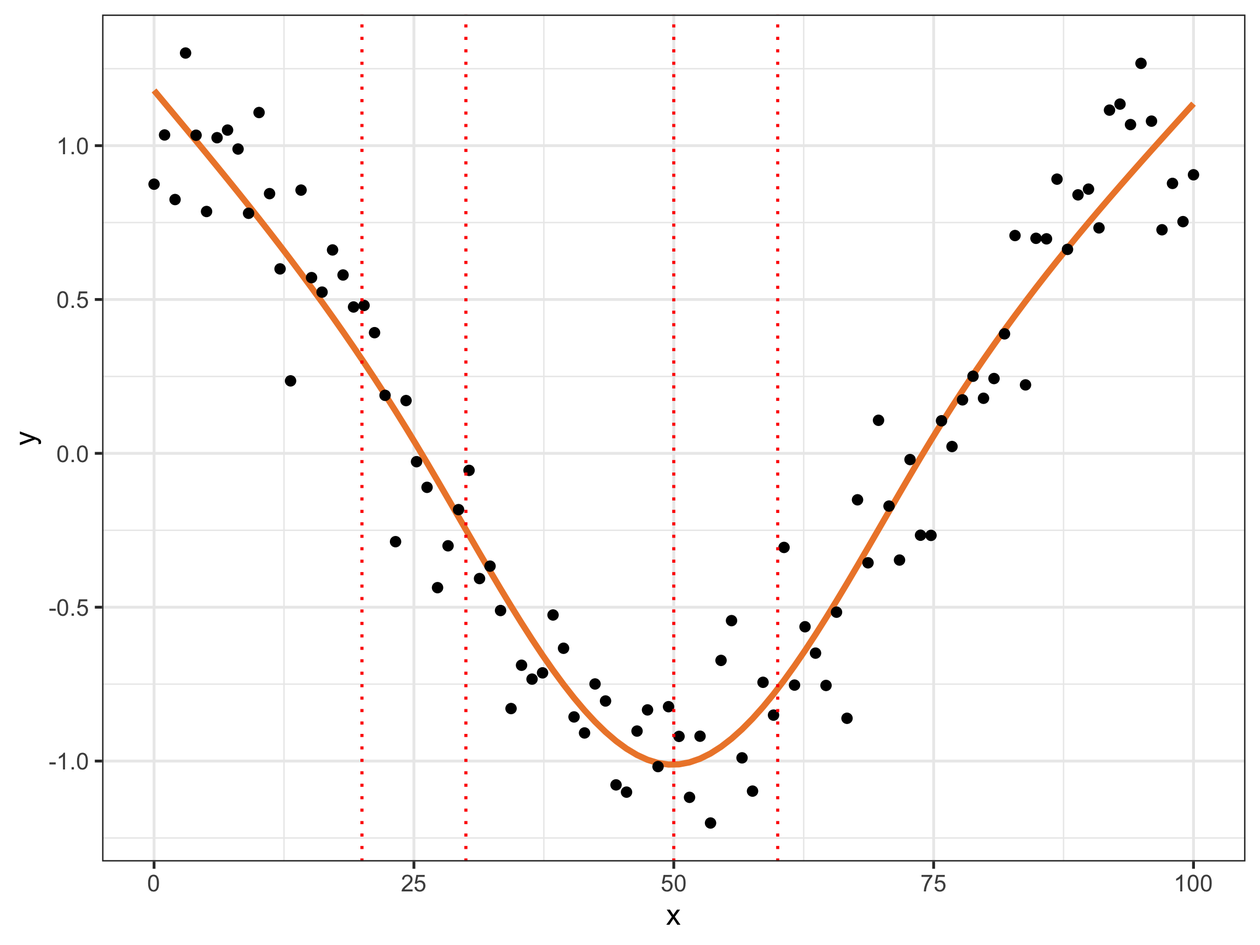
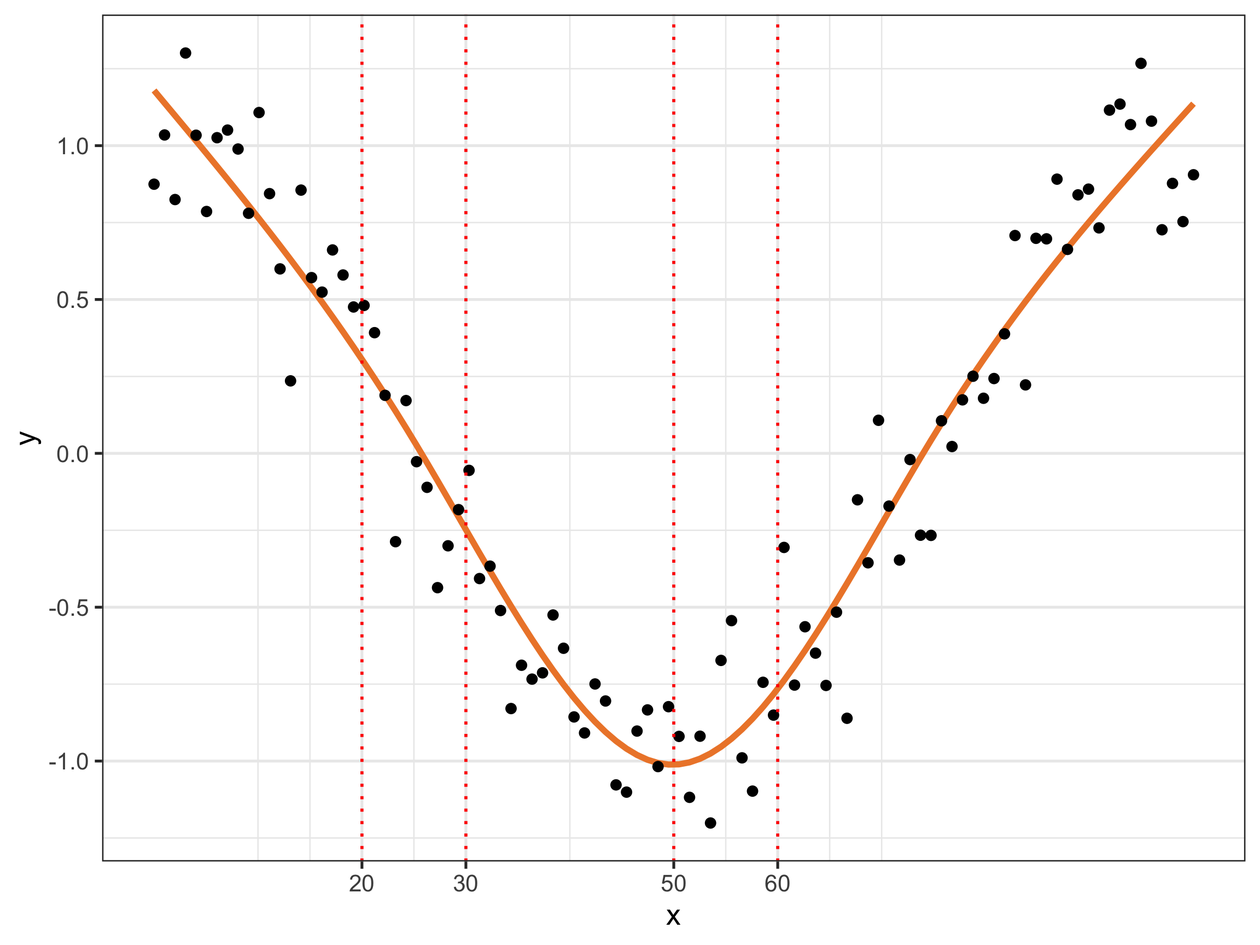
update

diff --git a/_site/posts/009_05Apr_2024/index.html b/_site/posts/009_05Apr_2024/index.html
@@ -1056,8 +1056,9 @@ Note
 <span id="cb9-3"><a href="#cb9-3"></a>  <span class="fu">geom_line</span>(<span class="at">data =</span> dat, <span class="fu">aes</span>(<span class="at">x =</span> x, <span class="at">y =</span> mod4b_pred), <span class="at">color =</span> <span class="st">"#EE8635"</span>, <span class="at">linewidth =</span> <span class="dv">2</span>) <span class="sc">+</span> </span>
 <span id="cb9-4"><a href="#cb9-4"></a>  <span class="fu">geom_point</span>(<span class="at">data =</span> dat, <span class="fu">aes</span>(<span class="at">x =</span> x, <span class="at">y =</span> y), <span class="at">size =</span> <span class="dv">3</span>) <span class="sc">+</span></span>
 <span id="cb9-5"><a href="#cb9-5"></a>  <span class="fu">geom_vline</span>(<span class="at">xintercept =</span> <span class="fu">c</span>(<span class="dv">20</span>,<span class="dv">30</span>,<span class="dv">50</span>,<span class="dv">60</span>), <span class="at">color =</span> <span class="st">"red"</span>, <span class="at">linetype =</span> <span class="st">"dotted"</span>, <span class="at">linewidth =</span> <span class="dv">1</span>) <span class="sc">+</span></span>
-<span id="cb9-6"><a href="#cb9-6"></a>  <span class="fu">xlab</span>(<span class="st">"x"</span>) <span class="sc">+</span> <span class="fu">ylab</span>(<span class="st">"y"</span>) <span class="sc">+</span> </span>
-<span id="cb9-7"><a href="#cb9-7"></a>  <span class="fu">theme_bw</span>(<span class="at">base_size =</span> <span class="dv">20</span>)</span></code><button title="Copy to Clipboard" class="code-copy-button"><i class="bi"></i></button></pre></div>
+<span id="cb9-6"><a href="#cb9-6"></a>  <span class="fu">scale_x_continuous</span>(<span class="at">limits =</span> <span class="fu">c</span>(<span class="dv">0</span>, <span class="dv">100</span>), <span class="at">breaks =</span> <span class="fu">c</span>(<span class="dv">20</span>, <span class="dv">30</span>, <span class="dv">50</span>, <span class="dv">60</span>)) <span class="sc">+</span></span>
+<span id="cb9-7"><a href="#cb9-7"></a>  <span class="fu">xlab</span>(<span class="st">"x"</span>) <span class="sc">+</span> <span class="fu">ylab</span>(<span class="st">"y"</span>) <span class="sc">+</span> </span>
+<span id="cb9-8"><a href="#cb9-8"></a>  <span class="fu">theme_bw</span>(<span class="at">base_size =</span> <span class="dv">20</span>)</span></code><button title="Copy to Clipboard" class="code-copy-button"><i class="bi"></i></button></pre></div>
 </details>
 <div class="cell-output-display">
 <div>
@@ -1087,7 +1088,7 @@ Note
 <span id="cb10-17"><a href="#cb10-17"></a>  <span class="fu">theme_vanilla</span>()</span></code><button title="Copy to Clipboard" class="code-copy-button"><i class="bi"></i></button></pre></div>
 </details>
 <div class="cell-output-display">
-<div class="tabwid"><style>.cl-c0a73044{table-layout:auto;}.cl-c0a43308{font-family:'Consolas';font-size:11pt;font-weight:bold;font-style:normal;text-decoration:none;color:rgba(0, 0, 0, 1.00);background-color:transparent;}.cl-c0a43312{font-family:'Consolas';font-size:11pt;font-weight:normal;font-style:normal;text-decoration:none;color:rgba(0, 0, 0, 1.00);background-color:transparent;}.cl-c0a570f6{margin:0;text-align:right;border-bottom: 0 solid rgba(0, 0, 0, 1.00);border-top: 0 solid rgba(0, 0, 0, 1.00);border-left: 0 solid rgba(0, 0, 0, 1.00);border-right: 0 solid rgba(0, 0, 0, 1.00);padding-bottom:5pt;padding-top:5pt;padding-left:5pt;padding-right:5pt;line-height: 1;background-color:transparent;}.cl-c0a579f2{height:0.25in;background-color:rgba(255, 255, 255, 1.00);vertical-align: middle;border-bottom: 1.5pt solid rgba(102, 102, 102, 1.00);border-top: 1.5pt solid rgba(102, 102, 102, 1.00);border-left: 0 solid rgba(0, 0, 0, 1.00);border-right: 0 solid rgba(0, 0, 0, 1.00);margin-bottom:0;margin-top:0;margin-left:0;margin-right:0;}.cl-c0a579fc{background-color:rgba(255, 255, 255, 1.00);vertical-align: middle;border-bottom: 0.75pt solid rgba(102, 102, 102, 1.00);border-top: 0 solid rgba(0, 0, 0, 1.00);border-left: 0 solid rgba(0, 0, 0, 1.00);border-right: 0 solid rgba(0, 0, 0, 1.00);margin-bottom:0;margin-top:0;margin-left:0;margin-right:0;}.cl-c0a579fd{background-color:rgba(255, 255, 255, 1.00);vertical-align: middle;border-bottom: 0.75pt solid rgba(102, 102, 102, 1.00);border-top: 0.75pt solid rgba(102, 102, 102, 1.00);border-left: 0 solid rgba(0, 0, 0, 1.00);border-right: 0 solid rgba(0, 0, 0, 1.00);margin-bottom:0;margin-top:0;margin-left:0;margin-right:0;}.cl-c0a57a06{background-color:rgba(255, 255, 255, 1.00);vertical-align: middle;border-bottom: 1.5pt solid rgba(102, 102, 102, 1.00);border-top: 0.75pt solid rgba(102, 102, 102, 1.00);border-left: 0 solid rgba(0, 0, 0, 1.00);border-right: 0 solid rgba(0, 0, 0, 1.00);margin-bottom:0;margin-top:0;margin-left:0;margin-right:0;}</style><table data-quarto-disable-processing="true" class="cl-c0a73044"><caption><p>Estimated Marginal Means</p></caption><thead><tr style="overflow-wrap:break-word;"><th class="cl-c0a579f2"><p class="cl-c0a570f6"><span class="cl-c0a43308">X</span></p></th><th class="cl-c0a579f2"><p class="cl-c0a570f6"><span class="cl-c0a43308">Emmean (Y)</span></p></th><th class="cl-c0a579f2"><p class="cl-c0a570f6"><span class="cl-c0a43308">SE</span></p></th><th class="cl-c0a579f2"><p class="cl-c0a570f6"><span class="cl-c0a43308">95% C.I. (lower)</span></p></th><th class="cl-c0a579f2"><p class="cl-c0a570f6"><span class="cl-c0a43308">95% C.I. (upper)</span></p></th></tr></thead><tbody><tr style="overflow-wrap:break-word;"><td class="cl-c0a579fc"><p class="cl-c0a570f6"><span class="cl-c0a43312">20</span></p></td><td class="cl-c0a579fc"><p class="cl-c0a570f6"><span class="cl-c0a43312">0.305</span></p></td><td class="cl-c0a579fc"><p class="cl-c0a570f6"><span class="cl-c0a43312">0.042</span></p></td><td class="cl-c0a579fc"><p class="cl-c0a570f6"><span class="cl-c0a43312">0.222</span></p></td><td class="cl-c0a579fc"><p class="cl-c0a570f6"><span class="cl-c0a43312">0.388</span></p></td></tr><tr style="overflow-wrap:break-word;"><td class="cl-c0a579fd"><p class="cl-c0a570f6"><span class="cl-c0a43312">30</span></p></td><td class="cl-c0a579fd"><p class="cl-c0a570f6"><span class="cl-c0a43312">-0.248</span></p></td><td class="cl-c0a579fd"><p class="cl-c0a570f6"><span class="cl-c0a43312">0.040</span></p></td><td class="cl-c0a579fd"><p class="cl-c0a570f6"><span class="cl-c0a43312">-0.328</span></p></td><td class="cl-c0a579fd"><p class="cl-c0a570f6"><span class="cl-c0a43312">-0.168</span></p></td></tr><tr style="overflow-wrap:break-word;"><td class="cl-c0a579fd"><p class="cl-c0a570f6"><span class="cl-c0a43312">50</span></p></td><td class="cl-c0a579fd"><p class="cl-c0a570f6"><span class="cl-c0a43312">-1.012</span></p></td><td class="cl-c0a579fd"><p class="cl-c0a570f6"><span class="cl-c0a43312">0.043</span></p></td><td class="cl-c0a579fd"><p class="cl-c0a570f6"><span class="cl-c0a43312">-1.098</span></p></td><td class="cl-c0a579fd"><p class="cl-c0a570f6"><span class="cl-c0a43312">-0.925</span></p></td></tr><tr style="overflow-wrap:break-word;"><td class="cl-c0a57a06"><p class="cl-c0a570f6"><span class="cl-c0a43312">60</span></p></td><td class="cl-c0a57a06"><p class="cl-c0a570f6"><span class="cl-c0a43312">-0.765</span></p></td><td class="cl-c0a57a06"><p class="cl-c0a570f6"><span class="cl-c0a43312">0.036</span></p></td><td class="cl-c0a57a06"><p class="cl-c0a570f6"><span class="cl-c0a43312">-0.837</span></p></td><td class="cl-c0a57a06"><p class="cl-c0a570f6"><span class="cl-c0a43312">-0.693</span></p></td></tr></tbody></table></div>
+<div class="tabwid"><style>.cl-bc0d8c7e{table-layout:auto;}.cl-bc0ab170{font-family:'Consolas';font-size:11pt;font-weight:bold;font-style:normal;text-decoration:none;color:rgba(0, 0, 0, 1.00);background-color:transparent;}.cl-bc0ab17a{font-family:'Consolas';font-size:11pt;font-weight:normal;font-style:normal;text-decoration:none;color:rgba(0, 0, 0, 1.00);background-color:transparent;}.cl-bc0bd3a2{margin:0;text-align:right;border-bottom: 0 solid rgba(0, 0, 0, 1.00);border-top: 0 solid rgba(0, 0, 0, 1.00);border-left: 0 solid rgba(0, 0, 0, 1.00);border-right: 0 solid rgba(0, 0, 0, 1.00);padding-bottom:5pt;padding-top:5pt;padding-left:5pt;padding-right:5pt;line-height: 1;background-color:transparent;}.cl-bc0bdc12{height:0.25in;background-color:rgba(255, 255, 255, 1.00);vertical-align: middle;border-bottom: 1.5pt solid rgba(102, 102, 102, 1.00);border-top: 1.5pt solid rgba(102, 102, 102, 1.00);border-left: 0 solid rgba(0, 0, 0, 1.00);border-right: 0 solid rgba(0, 0, 0, 1.00);margin-bottom:0;margin-top:0;margin-left:0;margin-right:0;}.cl-bc0bdc13{background-color:rgba(255, 255, 255, 1.00);vertical-align: middle;border-bottom: 0.75pt solid rgba(102, 102, 102, 1.00);border-top: 0 solid rgba(0, 0, 0, 1.00);border-left: 0 solid rgba(0, 0, 0, 1.00);border-right: 0 solid rgba(0, 0, 0, 1.00);margin-bottom:0;margin-top:0;margin-left:0;margin-right:0;}.cl-bc0bdc1c{background-color:rgba(255, 255, 255, 1.00);vertical-align: middle;border-bottom: 0.75pt solid rgba(102, 102, 102, 1.00);border-top: 0.75pt solid rgba(102, 102, 102, 1.00);border-left: 0 solid rgba(0, 0, 0, 1.00);border-right: 0 solid rgba(0, 0, 0, 1.00);margin-bottom:0;margin-top:0;margin-left:0;margin-right:0;}.cl-bc0bdc1d{background-color:rgba(255, 255, 255, 1.00);vertical-align: middle;border-bottom: 1.5pt solid rgba(102, 102, 102, 1.00);border-top: 0.75pt solid rgba(102, 102, 102, 1.00);border-left: 0 solid rgba(0, 0, 0, 1.00);border-right: 0 solid rgba(0, 0, 0, 1.00);margin-bottom:0;margin-top:0;margin-left:0;margin-right:0;}</style><table data-quarto-disable-processing="true" class="cl-bc0d8c7e"><caption><p>Estimated Marginal Means</p></caption><thead><tr style="overflow-wrap:break-word;"><th class="cl-bc0bdc12"><p class="cl-bc0bd3a2"><span class="cl-bc0ab170">X</span></p></th><th class="cl-bc0bdc12"><p class="cl-bc0bd3a2"><span class="cl-bc0ab170">Emmean (Y)</span></p></th><th class="cl-bc0bdc12"><p class="cl-bc0bd3a2"><span class="cl-bc0ab170">SE</span></p></th><th class="cl-bc0bdc12"><p class="cl-bc0bd3a2"><span class="cl-bc0ab170">95% C.I. (lower)</span></p></th><th class="cl-bc0bdc12"><p class="cl-bc0bd3a2"><span class="cl-bc0ab170">95% C.I. (upper)</span></p></th></tr></thead><tbody><tr style="overflow-wrap:break-word;"><td class="cl-bc0bdc13"><p class="cl-bc0bd3a2"><span class="cl-bc0ab17a">20</span></p></td><td class="cl-bc0bdc13"><p class="cl-bc0bd3a2"><span class="cl-bc0ab17a">0.305</span></p></td><td class="cl-bc0bdc13"><p class="cl-bc0bd3a2"><span class="cl-bc0ab17a">0.042</span></p></td><td class="cl-bc0bdc13"><p class="cl-bc0bd3a2"><span class="cl-bc0ab17a">0.222</span></p></td><td class="cl-bc0bdc13"><p class="cl-bc0bd3a2"><span class="cl-bc0ab17a">0.388</span></p></td></tr><tr style="overflow-wrap:break-word;"><td class="cl-bc0bdc1c"><p class="cl-bc0bd3a2"><span class="cl-bc0ab17a">30</span></p></td><td class="cl-bc0bdc1c"><p class="cl-bc0bd3a2"><span class="cl-bc0ab17a">-0.248</span></p></td><td class="cl-bc0bdc1c"><p class="cl-bc0bd3a2"><span class="cl-bc0ab17a">0.040</span></p></td><td class="cl-bc0bdc1c"><p class="cl-bc0bd3a2"><span class="cl-bc0ab17a">-0.328</span></p></td><td class="cl-bc0bdc1c"><p class="cl-bc0bd3a2"><span class="cl-bc0ab17a">-0.168</span></p></td></tr><tr style="overflow-wrap:break-word;"><td class="cl-bc0bdc1c"><p class="cl-bc0bd3a2"><span class="cl-bc0ab17a">50</span></p></td><td class="cl-bc0bdc1c"><p class="cl-bc0bd3a2"><span class="cl-bc0ab17a">-1.012</span></p></td><td class="cl-bc0bdc1c"><p class="cl-bc0bd3a2"><span class="cl-bc0ab17a">0.043</span></p></td><td class="cl-bc0bdc1c"><p class="cl-bc0bd3a2"><span class="cl-bc0ab17a">-1.098</span></p></td><td class="cl-bc0bdc1c"><p class="cl-bc0bd3a2"><span class="cl-bc0ab17a">-0.925</span></p></td></tr><tr style="overflow-wrap:break-word;"><td class="cl-bc0bdc1d"><p class="cl-bc0bd3a2"><span class="cl-bc0ab17a">60</span></p></td><td class="cl-bc0bdc1d"><p class="cl-bc0bd3a2"><span class="cl-bc0ab17a">-0.765</span></p></td><td class="cl-bc0bdc1d"><p class="cl-bc0bd3a2"><span class="cl-bc0ab17a">0.036</span></p></td><td class="cl-bc0bdc1d"><p class="cl-bc0bd3a2"><span class="cl-bc0ab17a">-0.837</span></p></td><td class="cl-bc0bdc1d"><p class="cl-bc0bd3a2"><span class="cl-bc0ab17a">-0.693</span></p></td></tr></tbody></table></div>
 </div>
 </div>
 <div class="cell">
@@ -1117,7 +1118,7 @@ Note
 <span id="cb11-22"><a href="#cb11-22"></a>  <span class="fu">theme_vanilla</span>()</span></code><button title="Copy to Clipboard" class="code-copy-button"><i class="bi"></i></button></pre></div>
 </details>
 <div class="cell-output-display">
-<div class="tabwid"><style>.cl-c0c10820{table-layout:auto;}.cl-c0bec09c{font-family:'Consolas';font-size:11pt;font-weight:bold;font-style:normal;text-decoration:none;color:rgba(0, 0, 0, 1.00);background-color:transparent;}.cl-c0bec09d{font-family:'Consolas';font-size:11pt;font-weight:normal;font-style:normal;text-decoration:none;color:rgba(0, 0, 0, 1.00);background-color:transparent;}.cl-c0bfae6c{margin:0;text-align:left;border-bottom: 0 solid rgba(0, 0, 0, 1.00);border-top: 0 solid rgba(0, 0, 0, 1.00);border-left: 0 solid rgba(0, 0, 0, 1.00);border-right: 0 solid rgba(0, 0, 0, 1.00);padding-bottom:5pt;padding-top:5pt;padding-left:5pt;padding-right:5pt;line-height: 1;background-color:transparent;}.cl-c0bfae76{margin:0;text-align:right;border-bottom: 0 solid rgba(0, 0, 0, 1.00);border-top: 0 solid rgba(0, 0, 0, 1.00);border-left: 0 solid rgba(0, 0, 0, 1.00);border-right: 0 solid rgba(0, 0, 0, 1.00);padding-bottom:5pt;padding-top:5pt;padding-left:5pt;padding-right:5pt;line-height: 1;background-color:transparent;}.cl-c0bfb56a{height:0.25in;background-color:rgba(255, 255, 255, 1.00);vertical-align: middle;border-bottom: 1.5pt solid rgba(102, 102, 102, 1.00);border-top: 1.5pt solid rgba(102, 102, 102, 1.00);border-left: 0 solid rgba(0, 0, 0, 1.00);border-right: 0 solid rgba(0, 0, 0, 1.00);margin-bottom:0;margin-top:0;margin-left:0;margin-right:0;}.cl-c0bfb574{height:0.25in;background-color:rgba(255, 255, 255, 1.00);vertical-align: middle;border-bottom: 1.5pt solid rgba(102, 102, 102, 1.00);border-top: 1.5pt solid rgba(102, 102, 102, 1.00);border-left: 0 solid rgba(0, 0, 0, 1.00);border-right: 0 solid rgba(0, 0, 0, 1.00);margin-bottom:0;margin-top:0;margin-left:0;margin-right:0;}.cl-c0bfb575{background-color:rgba(255, 255, 255, 1.00);vertical-align: middle;border-bottom: 0.75pt solid rgba(102, 102, 102, 1.00);border-top: 0 solid rgba(0, 0, 0, 1.00);border-left: 0 solid rgba(0, 0, 0, 1.00);border-right: 0 solid rgba(0, 0, 0, 1.00);margin-bottom:0;margin-top:0;margin-left:0;margin-right:0;}.cl-c0bfb57e{background-color:rgba(255, 255, 255, 1.00);vertical-align: middle;border-bottom: 0.75pt solid rgba(102, 102, 102, 1.00);border-top: 0 solid rgba(0, 0, 0, 1.00);border-left: 0 solid rgba(0, 0, 0, 1.00);border-right: 0 solid rgba(0, 0, 0, 1.00);margin-bottom:0;margin-top:0;margin-left:0;margin-right:0;}.cl-c0bfb57f{background-color:rgba(255, 255, 255, 1.00);vertical-align: middle;border-bottom: 1.5pt solid rgba(102, 102, 102, 1.00);border-top: 0.75pt solid rgba(102, 102, 102, 1.00);border-left: 0 solid rgba(0, 0, 0, 1.00);border-right: 0 solid rgba(0, 0, 0, 1.00);margin-bottom:0;margin-top:0;margin-left:0;margin-right:0;}.cl-c0bfb580{background-color:rgba(255, 255, 255, 1.00);vertical-align: middle;border-bottom: 1.5pt solid rgba(102, 102, 102, 1.00);border-top: 0.75pt solid rgba(102, 102, 102, 1.00);border-left: 0 solid rgba(0, 0, 0, 1.00);border-right: 0 solid rgba(0, 0, 0, 1.00);margin-bottom:0;margin-top:0;margin-left:0;margin-right:0;}</style><table data-quarto-disable-processing="true" class="cl-c0c10820"><caption><p>Contrasts of Estimated Marginal Means</p></caption><thead><tr style="overflow-wrap:break-word;"><th class="cl-c0bfb56a"><p class="cl-c0bfae6c"><span class="cl-c0bec09c">Contrast</span></p></th><th class="cl-c0bfb574"><p class="cl-c0bfae76"><span class="cl-c0bec09c">Estimate</span></p></th><th class="cl-c0bfb574"><p class="cl-c0bfae76"><span class="cl-c0bec09c">SE</span></p></th><th class="cl-c0bfb574"><p class="cl-c0bfae76"><span class="cl-c0bec09c">95% C.I. (lower)</span></p></th><th class="cl-c0bfb574"><p class="cl-c0bfae76"><span class="cl-c0bec09c">95% C.I. (upper)</span></p></th><th class="cl-c0bfb574"><p class="cl-c0bfae76"><span class="cl-c0bec09c">p</span></p></th></tr></thead><tbody><tr style="overflow-wrap:break-word;"><td class="cl-c0bfb575"><p class="cl-c0bfae6c"><span class="cl-c0bec09d">Change in Y corresponding to change in X from 20 to 30</span></p></td><td class="cl-c0bfb57e"><p class="cl-c0bfae76"><span class="cl-c0bec09d">-0.553</span></p></td><td class="cl-c0bfb57e"><p class="cl-c0bfae76"><span class="cl-c0bec09d">0.019</span></p></td><td class="cl-c0bfb57e"><p class="cl-c0bfae76"><span class="cl-c0bec09d">-0.592</span></p></td><td class="cl-c0bfb57e"><p class="cl-c0bfae76"><span class="cl-c0bec09d">-0.515</span></p></td><td class="cl-c0bfb57e"><p class="cl-c0bfae76"><span class="cl-c0bec09d">0.000</span></p></td></tr><tr style="overflow-wrap:break-word;"><td class="cl-c0bfb57f"><p class="cl-c0bfae6c"><span class="cl-c0bec09d">Change in Y corresponding to change in X from 50 to 60</span></p></td><td class="cl-c0bfb580"><p class="cl-c0bfae76"><span class="cl-c0bec09d">0.247</span></p></td><td class="cl-c0bfb580"><p class="cl-c0bfae76"><span class="cl-c0bec09d">0.026</span></p></td><td class="cl-c0bfb580"><p class="cl-c0bfae76"><span class="cl-c0bec09d">0.196</span></p></td><td class="cl-c0bfb580"><p class="cl-c0bfae76"><span class="cl-c0bec09d">0.297</span></p></td><td class="cl-c0bfb580"><p class="cl-c0bfae76"><span class="cl-c0bec09d">0.000</span></p></td></tr></tbody></table></div>
+<div class="tabwid"><style>.cl-bc254fd0{table-layout:auto;}.cl-bc2315f8{font-family:'Consolas';font-size:11pt;font-weight:bold;font-style:normal;text-decoration:none;color:rgba(0, 0, 0, 1.00);background-color:transparent;}.cl-bc231602{font-family:'Consolas';font-size:11pt;font-weight:normal;font-style:normal;text-decoration:none;color:rgba(0, 0, 0, 1.00);background-color:transparent;}.cl-bc23fedc{margin:0;text-align:left;border-bottom: 0 solid rgba(0, 0, 0, 1.00);border-top: 0 solid rgba(0, 0, 0, 1.00);border-left: 0 solid rgba(0, 0, 0, 1.00);border-right: 0 solid rgba(0, 0, 0, 1.00);padding-bottom:5pt;padding-top:5pt;padding-left:5pt;padding-right:5pt;line-height: 1;background-color:transparent;}.cl-bc23fee6{margin:0;text-align:right;border-bottom: 0 solid rgba(0, 0, 0, 1.00);border-top: 0 solid rgba(0, 0, 0, 1.00);border-left: 0 solid rgba(0, 0, 0, 1.00);border-right: 0 solid rgba(0, 0, 0, 1.00);padding-bottom:5pt;padding-top:5pt;padding-left:5pt;padding-right:5pt;line-height: 1;background-color:transparent;}.cl-bc2405c6{height:0.25in;background-color:rgba(255, 255, 255, 1.00);vertical-align: middle;border-bottom: 1.5pt solid rgba(102, 102, 102, 1.00);border-top: 1.5pt solid rgba(102, 102, 102, 1.00);border-left: 0 solid rgba(0, 0, 0, 1.00);border-right: 0 solid rgba(0, 0, 0, 1.00);margin-bottom:0;margin-top:0;margin-left:0;margin-right:0;}.cl-bc2405d0{height:0.25in;background-color:rgba(255, 255, 255, 1.00);vertical-align: middle;border-bottom: 1.5pt solid rgba(102, 102, 102, 1.00);border-top: 1.5pt solid rgba(102, 102, 102, 1.00);border-left: 0 solid rgba(0, 0, 0, 1.00);border-right: 0 solid rgba(0, 0, 0, 1.00);margin-bottom:0;margin-top:0;margin-left:0;margin-right:0;}.cl-bc2405d1{background-color:rgba(255, 255, 255, 1.00);vertical-align: middle;border-bottom: 0.75pt solid rgba(102, 102, 102, 1.00);border-top: 0 solid rgba(0, 0, 0, 1.00);border-left: 0 solid rgba(0, 0, 0, 1.00);border-right: 0 solid rgba(0, 0, 0, 1.00);margin-bottom:0;margin-top:0;margin-left:0;margin-right:0;}.cl-bc2405d2{background-color:rgba(255, 255, 255, 1.00);vertical-align: middle;border-bottom: 0.75pt solid rgba(102, 102, 102, 1.00);border-top: 0 solid rgba(0, 0, 0, 1.00);border-left: 0 solid rgba(0, 0, 0, 1.00);border-right: 0 solid rgba(0, 0, 0, 1.00);margin-bottom:0;margin-top:0;margin-left:0;margin-right:0;}.cl-bc2405d3{background-color:rgba(255, 255, 255, 1.00);vertical-align: middle;border-bottom: 1.5pt solid rgba(102, 102, 102, 1.00);border-top: 0.75pt solid rgba(102, 102, 102, 1.00);border-left: 0 solid rgba(0, 0, 0, 1.00);border-right: 0 solid rgba(0, 0, 0, 1.00);margin-bottom:0;margin-top:0;margin-left:0;margin-right:0;}.cl-bc2405da{background-color:rgba(255, 255, 255, 1.00);vertical-align: middle;border-bottom: 1.5pt solid rgba(102, 102, 102, 1.00);border-top: 0.75pt solid rgba(102, 102, 102, 1.00);border-left: 0 solid rgba(0, 0, 0, 1.00);border-right: 0 solid rgba(0, 0, 0, 1.00);margin-bottom:0;margin-top:0;margin-left:0;margin-right:0;}</style><table data-quarto-disable-processing="true" class="cl-bc254fd0"><caption><p>Contrasts of Estimated Marginal Means</p></caption><thead><tr style="overflow-wrap:break-word;"><th class="cl-bc2405c6"><p class="cl-bc23fedc"><span class="cl-bc2315f8">Contrast</span></p></th><th class="cl-bc2405d0"><p class="cl-bc23fee6"><span class="cl-bc2315f8">Estimate</span></p></th><th class="cl-bc2405d0"><p class="cl-bc23fee6"><span class="cl-bc2315f8">SE</span></p></th><th class="cl-bc2405d0"><p class="cl-bc23fee6"><span class="cl-bc2315f8">95% C.I. (lower)</span></p></th><th class="cl-bc2405d0"><p class="cl-bc23fee6"><span class="cl-bc2315f8">95% C.I. (upper)</span></p></th><th class="cl-bc2405d0"><p class="cl-bc23fee6"><span class="cl-bc2315f8">p</span></p></th></tr></thead><tbody><tr style="overflow-wrap:break-word;"><td class="cl-bc2405d1"><p class="cl-bc23fedc"><span class="cl-bc231602">Change in Y corresponding to change in X from 20 to 30</span></p></td><td class="cl-bc2405d2"><p class="cl-bc23fee6"><span class="cl-bc231602">-0.553</span></p></td><td class="cl-bc2405d2"><p class="cl-bc23fee6"><span class="cl-bc231602">0.019</span></p></td><td class="cl-bc2405d2"><p class="cl-bc23fee6"><span class="cl-bc231602">-0.592</span></p></td><td class="cl-bc2405d2"><p class="cl-bc23fee6"><span class="cl-bc231602">-0.515</span></p></td><td class="cl-bc2405d2"><p class="cl-bc23fee6"><span class="cl-bc231602">0.000</span></p></td></tr><tr style="overflow-wrap:break-word;"><td class="cl-bc2405d3"><p class="cl-bc23fedc"><span class="cl-bc231602">Change in Y corresponding to change in X from 50 to 60</span></p></td><td class="cl-bc2405da"><p class="cl-bc23fee6"><span class="cl-bc231602">0.247</span></p></td><td class="cl-bc2405da"><p class="cl-bc23fee6"><span class="cl-bc231602">0.026</span></p></td><td class="cl-bc2405da"><p class="cl-bc23fee6"><span class="cl-bc231602">0.196</span></p></td><td class="cl-bc2405da"><p class="cl-bc23fee6"><span class="cl-bc231602">0.297</span></p></td><td class="cl-bc2405da"><p class="cl-bc23fee6"><span class="cl-bc231602">0.000</span></p></td></tr></tbody></table></div>
 </div>
 </div>
 <p>That’s probably enough on RCS’s for now - this post has turned out longer than I initially anticipated. I hope you have found it helpful and above all, found some motivation to using RCS’s in your modelling endeavours if you are not already.</p>
@@ -1996,65 +1997,66 @@ window.document.addEventListener("DOMContentLoaded", function (event) {
 <span id="cb12-289"><a href="#cb12-289"></a>  <span class="fu">geom_line</span>(<span class="at">data =</span> dat, <span class="fu">aes</span>(<span class="at">x =</span> x, <span class="at">y =</span> mod4b_pred), <span class="at">color =</span> <span class="st">"#EE8635"</span>, <span class="at">linewidth =</span> <span class="dv">2</span>) <span class="sc">+</span> </span>
 <span id="cb12-290"><a href="#cb12-290"></a>  <span class="fu">geom_point</span>(<span class="at">data =</span> dat, <span class="fu">aes</span>(<span class="at">x =</span> x, <span class="at">y =</span> y), <span class="at">size =</span> <span class="dv">3</span>) <span class="sc">+</span></span>
 <span id="cb12-291"><a href="#cb12-291"></a>  <span class="fu">geom_vline</span>(<span class="at">xintercept =</span> <span class="fu">c</span>(<span class="dv">20</span>,<span class="dv">30</span>,<span class="dv">50</span>,<span class="dv">60</span>), <span class="at">color =</span> <span class="st">"red"</span>, <span class="at">linetype =</span> <span class="st">"dotted"</span>, <span class="at">linewidth =</span> <span class="dv">1</span>) <span class="sc">+</span></span>
-<span id="cb12-292"><a href="#cb12-292"></a>  <span class="fu">xlab</span>(<span class="st">"x"</span>) <span class="sc">+</span> <span class="fu">ylab</span>(<span class="st">"y"</span>) <span class="sc">+</span> </span>
-<span id="cb12-293"><a href="#cb12-293"></a>  <span class="fu">theme_bw</span>(<span class="at">base_size =</span> <span class="dv">20</span>)</span>
-<span id="cb12-294"><a href="#cb12-294"></a><span class="co"># emmeans</span></span>
-<span id="cb12-295"><a href="#cb12-295"></a><span class="fu">emmeans</span>(mod4b, <span class="sc">~</span> x, <span class="at">at =</span> <span class="fu">list</span>(<span class="at">x =</span> <span class="fu">c</span>(<span class="dv">20</span>,<span class="dv">30</span>,<span class="dv">50</span>,<span class="dv">60</span>))) <span class="sc">|&gt;</span> </span>
-<span id="cb12-296"><a href="#cb12-296"></a>  <span class="fu">data.frame</span>() <span class="sc">|&gt;</span> </span>
-<span id="cb12-297"><a href="#cb12-297"></a>  <span class="fu">select</span>(<span class="sc">-</span>df) <span class="sc">|&gt;</span> </span>
-<span id="cb12-298"><a href="#cb12-298"></a>  <span class="fu">rename</span>(<span class="st">"X"</span> <span class="ot">=</span> <span class="st">"x"</span>,</span>
-<span id="cb12-299"><a href="#cb12-299"></a>         <span class="st">"Emmean (Y)"</span> <span class="ot">=</span> <span class="st">"emmean"</span>,</span>
-<span id="cb12-300"><a href="#cb12-300"></a>         <span class="st">"95% C.I. (lower)"</span> <span class="ot">=</span> <span class="st">"lower.CL"</span>,</span>
-<span id="cb12-301"><a href="#cb12-301"></a>         <span class="st">"95% C.I. (upper)"</span> <span class="ot">=</span> <span class="st">"upper.CL"</span>) <span class="sc">|&gt;</span> </span>
-<span id="cb12-302"><a href="#cb12-302"></a>  <span class="fu">flextable</span>() <span class="sc">|&gt;</span> </span>
-<span id="cb12-303"><a href="#cb12-303"></a>  <span class="fu">colformat_double</span>(<span class="at">j =</span> <span class="fu">c</span>(<span class="dv">2</span><span class="sc">:</span><span class="dv">5</span>), <span class="at">digits =</span> <span class="dv">3</span>, <span class="at">na_str =</span> <span class="st">"N/A"</span>) <span class="sc">|&gt;</span></span>
-<span id="cb12-304"><a href="#cb12-304"></a>  <span class="fu">set_table_properties</span>(<span class="at">layout =</span> <span class="st">"autofit"</span>) <span class="sc">|&gt;</span> </span>
-<span id="cb12-305"><a href="#cb12-305"></a>  <span class="fu">height</span>(<span class="at">height =</span> <span class="dv">1</span>, <span class="at">unit =</span> <span class="st">"cm"</span>) <span class="sc">|&gt;</span> </span>
-<span id="cb12-306"><a href="#cb12-306"></a>  <span class="fu">hrule</span>(<span class="at">rule =</span> <span class="st">"atleast"</span>, <span class="at">part =</span> <span class="st">"header"</span>) <span class="sc">|&gt;</span> </span>
-<span id="cb12-307"><a href="#cb12-307"></a>  <span class="fu">align</span>(<span class="at">align =</span> <span class="st">"center"</span>, <span class="at">part =</span> <span class="st">"body"</span>) <span class="sc">|&gt;</span></span>
-<span id="cb12-308"><a href="#cb12-308"></a>  <span class="fu">bg</span>(<span class="at">bg =</span> <span class="st">"white"</span>, <span class="at">part =</span> <span class="st">"all"</span>) <span class="sc">|&gt;</span> </span>
-<span id="cb12-309"><a href="#cb12-309"></a>  flextable<span class="sc">::</span><span class="fu">font</span>(<span class="at">fontname =</span> <span class="st">"Consolas"</span>, <span class="at">part =</span> <span class="st">"all"</span>) <span class="sc">|&gt;</span></span>
-<span id="cb12-310"><a href="#cb12-310"></a>  <span class="fu">theme_vanilla</span>()</span>
-<span id="cb12-311"><a href="#cb12-311"></a><span class="in">```</span></span>
-<span id="cb12-312"><a href="#cb12-312"></a></span>
-<span id="cb12-315"><a href="#cb12-315"></a><span class="in">```{r}</span></span>
-<span id="cb12-316"><a href="#cb12-316"></a><span class="co">#| label: contrasts</span></span>
-<span id="cb12-317"><a href="#cb12-317"></a><span class="co">#| tbl-cap: Contrasts of Estimated Marginal Means</span></span>
-<span id="cb12-318"><a href="#cb12-318"></a><span class="co"># contrasts</span></span>
-<span id="cb12-319"><a href="#cb12-319"></a>emm <span class="ot">&lt;-</span> <span class="fu">emmeans</span>(mod4b, <span class="sc">~</span> x, <span class="at">at =</span> <span class="fu">list</span>(<span class="at">x =</span> <span class="fu">c</span>(<span class="dv">20</span>,<span class="dv">30</span>,<span class="dv">50</span>,<span class="dv">60</span>)))</span>
-<span id="cb12-320"><a href="#cb12-320"></a>custom <span class="ot">&lt;-</span> <span class="fu">list</span>(<span class="st">`</span><span class="at">Change in Y corresponding to change in X from 20 to 30</span><span class="st">`</span> <span class="ot">=</span> <span class="fu">c</span>(<span class="sc">-</span><span class="dv">1</span>,<span class="dv">1</span>,<span class="dv">0</span>,<span class="dv">0</span>),</span>
-<span id="cb12-321"><a href="#cb12-321"></a>               <span class="st">`</span><span class="at">Change in Y corresponding to change in X from 50 to 60</span><span class="st">`</span> <span class="ot">=</span> <span class="fu">c</span>(<span class="dv">0</span>,<span class="dv">0</span>,<span class="sc">-</span><span class="dv">1</span>,<span class="dv">1</span>))</span>
-<span id="cb12-322"><a href="#cb12-322"></a><span class="fu">contrast</span>(emm, custom) <span class="sc">|&gt;</span> </span>
-<span id="cb12-323"><a href="#cb12-323"></a>  <span class="fu">summary</span>(<span class="at">infer =</span> T) <span class="sc">|&gt;</span> </span>
-<span id="cb12-324"><a href="#cb12-324"></a>  <span class="fu">data.frame</span>() <span class="sc">|&gt;</span> </span>
-<span id="cb12-325"><a href="#cb12-325"></a>  <span class="fu">select</span>(<span class="fu">c</span>(<span class="sc">-</span>df, <span class="sc">-</span>t.ratio)) <span class="sc">|&gt;</span> </span>
-<span id="cb12-326"><a href="#cb12-326"></a>  <span class="fu">rename</span>(<span class="st">"Contrast"</span> <span class="ot">=</span> <span class="st">"contrast"</span>,</span>
-<span id="cb12-327"><a href="#cb12-327"></a>         <span class="st">"Estimate"</span> <span class="ot">=</span> <span class="st">"estimate"</span>,</span>
-<span id="cb12-328"><a href="#cb12-328"></a>         <span class="st">"95% C.I. (lower)"</span> <span class="ot">=</span> <span class="st">"lower.CL"</span>,</span>
-<span id="cb12-329"><a href="#cb12-329"></a>         <span class="st">"95% C.I. (upper)"</span> <span class="ot">=</span> <span class="st">"upper.CL"</span>,</span>
-<span id="cb12-330"><a href="#cb12-330"></a>         <span class="st">"p"</span> <span class="ot">=</span> <span class="st">"p.value"</span>) <span class="sc">|&gt;</span> </span>
-<span id="cb12-331"><a href="#cb12-331"></a>  <span class="fu">flextable</span>() <span class="sc">|&gt;</span> </span>
-<span id="cb12-332"><a href="#cb12-332"></a>  <span class="fu">colformat_double</span>(<span class="at">digits =</span> <span class="dv">3</span>, <span class="at">na_str =</span> <span class="st">"N/A"</span>) <span class="sc">|&gt;</span></span>
-<span id="cb12-333"><a href="#cb12-333"></a>  <span class="fu">set_table_properties</span>(<span class="at">layout =</span> <span class="st">"autofit"</span>) <span class="sc">|&gt;</span> </span>
-<span id="cb12-334"><a href="#cb12-334"></a>  <span class="fu">height</span>(<span class="at">height =</span> <span class="dv">1</span>, <span class="at">unit =</span> <span class="st">"cm"</span>) <span class="sc">|&gt;</span> </span>
-<span id="cb12-335"><a href="#cb12-335"></a>  <span class="fu">hrule</span>(<span class="at">rule =</span> <span class="st">"atleast"</span>, <span class="at">part =</span> <span class="st">"header"</span>) <span class="sc">|&gt;</span> </span>
-<span id="cb12-336"><a href="#cb12-336"></a>  <span class="fu">align</span>(<span class="at">align =</span> <span class="st">"center"</span>, <span class="at">part =</span> <span class="st">"body"</span>) <span class="sc">|&gt;</span></span>
-<span id="cb12-337"><a href="#cb12-337"></a>  <span class="fu">bg</span>(<span class="at">bg =</span> <span class="st">"white"</span>, <span class="at">part =</span> <span class="st">"all"</span>) <span class="sc">|&gt;</span> </span>
-<span id="cb12-338"><a href="#cb12-338"></a>  flextable<span class="sc">::</span><span class="fu">font</span>(<span class="at">fontname =</span> <span class="st">"Consolas"</span>, <span class="at">part =</span> <span class="st">"all"</span>) <span class="sc">|&gt;</span></span>
-<span id="cb12-339"><a href="#cb12-339"></a>  <span class="fu">theme_vanilla</span>()</span>
-<span id="cb12-340"><a href="#cb12-340"></a><span class="in">```</span></span>
-<span id="cb12-341"><a href="#cb12-341"></a></span>
-<span id="cb12-342"><a href="#cb12-342"></a>That's probably enough on RCS's for now - this post has turned out longer than I initially anticipated. I hope you have found it helpful and above all, found some motivation to using RCS's in your modelling endeavours if you are not already. </span>
-<span id="cb12-343"><a href="#cb12-343"></a></span>
-<span id="cb12-344"><a href="#cb12-344"></a><span class="fu">### Extra Reading</span></span>
-<span id="cb12-345"><a href="#cb12-345"></a></span>
-<span id="cb12-346"><a href="#cb12-346"></a>If you want to dive a little deeper into RCS's than we've done here, I can thoroughly recommend the following 3 papers:</span>
-<span id="cb12-347"><a href="#cb12-347"></a></span>
-<span id="cb12-348"><a href="#cb12-348"></a><span class="co">[</span><span class="ot">Modeling non-linear relationships in epidemiological data: The application and interpretation of spline models</span><span class="co">](https://www.frontiersin.org/articles/10.3389/fepid.2022.975380/full)</span></span>
-<span id="cb12-349"><a href="#cb12-349"></a></span>
-<span id="cb12-350"><a href="#cb12-350"></a><span class="co">[</span><span class="ot">Cubic splines to model relationships between continuous variables and outcomes: a guide for clinicians</span><span class="co">](https://www.nature.com/articles/s41409-019-0679-x)</span></span>
-<span id="cb12-351"><a href="#cb12-351"></a></span>
-<span id="cb12-352"><a href="#cb12-352"></a><span class="co">[</span><span class="ot">A review of spline function procedures in R</span><span class="co">](https://bmcmedresmethodol.biomedcentral.com/articles/10.1186/s12874-019-0666-3)</span></span>
+<span id="cb12-292"><a href="#cb12-292"></a>  <span class="fu">scale_x_continuous</span>(<span class="at">limits =</span> <span class="fu">c</span>(<span class="dv">0</span>, <span class="dv">100</span>), <span class="at">breaks =</span> <span class="fu">c</span>(<span class="dv">20</span>, <span class="dv">30</span>, <span class="dv">50</span>, <span class="dv">60</span>)) <span class="sc">+</span></span>
+<span id="cb12-293"><a href="#cb12-293"></a>  <span class="fu">xlab</span>(<span class="st">"x"</span>) <span class="sc">+</span> <span class="fu">ylab</span>(<span class="st">"y"</span>) <span class="sc">+</span> </span>
+<span id="cb12-294"><a href="#cb12-294"></a>  <span class="fu">theme_bw</span>(<span class="at">base_size =</span> <span class="dv">20</span>)</span>
+<span id="cb12-295"><a href="#cb12-295"></a><span class="co"># emmeans</span></span>
+<span id="cb12-296"><a href="#cb12-296"></a><span class="fu">emmeans</span>(mod4b, <span class="sc">~</span> x, <span class="at">at =</span> <span class="fu">list</span>(<span class="at">x =</span> <span class="fu">c</span>(<span class="dv">20</span>,<span class="dv">30</span>,<span class="dv">50</span>,<span class="dv">60</span>))) <span class="sc">|&gt;</span> </span>
+<span id="cb12-297"><a href="#cb12-297"></a>  <span class="fu">data.frame</span>() <span class="sc">|&gt;</span> </span>
+<span id="cb12-298"><a href="#cb12-298"></a>  <span class="fu">select</span>(<span class="sc">-</span>df) <span class="sc">|&gt;</span> </span>
+<span id="cb12-299"><a href="#cb12-299"></a>  <span class="fu">rename</span>(<span class="st">"X"</span> <span class="ot">=</span> <span class="st">"x"</span>,</span>
+<span id="cb12-300"><a href="#cb12-300"></a>         <span class="st">"Emmean (Y)"</span> <span class="ot">=</span> <span class="st">"emmean"</span>,</span>
+<span id="cb12-301"><a href="#cb12-301"></a>         <span class="st">"95% C.I. (lower)"</span> <span class="ot">=</span> <span class="st">"lower.CL"</span>,</span>
+<span id="cb12-302"><a href="#cb12-302"></a>         <span class="st">"95% C.I. (upper)"</span> <span class="ot">=</span> <span class="st">"upper.CL"</span>) <span class="sc">|&gt;</span> </span>
+<span id="cb12-303"><a href="#cb12-303"></a>  <span class="fu">flextable</span>() <span class="sc">|&gt;</span> </span>
+<span id="cb12-304"><a href="#cb12-304"></a>  <span class="fu">colformat_double</span>(<span class="at">j =</span> <span class="fu">c</span>(<span class="dv">2</span><span class="sc">:</span><span class="dv">5</span>), <span class="at">digits =</span> <span class="dv">3</span>, <span class="at">na_str =</span> <span class="st">"N/A"</span>) <span class="sc">|&gt;</span></span>
+<span id="cb12-305"><a href="#cb12-305"></a>  <span class="fu">set_table_properties</span>(<span class="at">layout =</span> <span class="st">"autofit"</span>) <span class="sc">|&gt;</span> </span>
+<span id="cb12-306"><a href="#cb12-306"></a>  <span class="fu">height</span>(<span class="at">height =</span> <span class="dv">1</span>, <span class="at">unit =</span> <span class="st">"cm"</span>) <span class="sc">|&gt;</span> </span>
+<span id="cb12-307"><a href="#cb12-307"></a>  <span class="fu">hrule</span>(<span class="at">rule =</span> <span class="st">"atleast"</span>, <span class="at">part =</span> <span class="st">"header"</span>) <span class="sc">|&gt;</span> </span>
+<span id="cb12-308"><a href="#cb12-308"></a>  <span class="fu">align</span>(<span class="at">align =</span> <span class="st">"center"</span>, <span class="at">part =</span> <span class="st">"body"</span>) <span class="sc">|&gt;</span></span>
+<span id="cb12-309"><a href="#cb12-309"></a>  <span class="fu">bg</span>(<span class="at">bg =</span> <span class="st">"white"</span>, <span class="at">part =</span> <span class="st">"all"</span>) <span class="sc">|&gt;</span> </span>
+<span id="cb12-310"><a href="#cb12-310"></a>  flextable<span class="sc">::</span><span class="fu">font</span>(<span class="at">fontname =</span> <span class="st">"Consolas"</span>, <span class="at">part =</span> <span class="st">"all"</span>) <span class="sc">|&gt;</span></span>
+<span id="cb12-311"><a href="#cb12-311"></a>  <span class="fu">theme_vanilla</span>()</span>
+<span id="cb12-312"><a href="#cb12-312"></a><span class="in">```</span></span>
+<span id="cb12-313"><a href="#cb12-313"></a></span>
+<span id="cb12-316"><a href="#cb12-316"></a><span class="in">```{r}</span></span>
+<span id="cb12-317"><a href="#cb12-317"></a><span class="co">#| label: contrasts</span></span>
+<span id="cb12-318"><a href="#cb12-318"></a><span class="co">#| tbl-cap: Contrasts of Estimated Marginal Means</span></span>
+<span id="cb12-319"><a href="#cb12-319"></a><span class="co"># contrasts</span></span>
+<span id="cb12-320"><a href="#cb12-320"></a>emm <span class="ot">&lt;-</span> <span class="fu">emmeans</span>(mod4b, <span class="sc">~</span> x, <span class="at">at =</span> <span class="fu">list</span>(<span class="at">x =</span> <span class="fu">c</span>(<span class="dv">20</span>,<span class="dv">30</span>,<span class="dv">50</span>,<span class="dv">60</span>)))</span>
+<span id="cb12-321"><a href="#cb12-321"></a>custom <span class="ot">&lt;-</span> <span class="fu">list</span>(<span class="st">`</span><span class="at">Change in Y corresponding to change in X from 20 to 30</span><span class="st">`</span> <span class="ot">=</span> <span class="fu">c</span>(<span class="sc">-</span><span class="dv">1</span>,<span class="dv">1</span>,<span class="dv">0</span>,<span class="dv">0</span>),</span>
+<span id="cb12-322"><a href="#cb12-322"></a>               <span class="st">`</span><span class="at">Change in Y corresponding to change in X from 50 to 60</span><span class="st">`</span> <span class="ot">=</span> <span class="fu">c</span>(<span class="dv">0</span>,<span class="dv">0</span>,<span class="sc">-</span><span class="dv">1</span>,<span class="dv">1</span>))</span>
+<span id="cb12-323"><a href="#cb12-323"></a><span class="fu">contrast</span>(emm, custom) <span class="sc">|&gt;</span> </span>
+<span id="cb12-324"><a href="#cb12-324"></a>  <span class="fu">summary</span>(<span class="at">infer =</span> T) <span class="sc">|&gt;</span> </span>
+<span id="cb12-325"><a href="#cb12-325"></a>  <span class="fu">data.frame</span>() <span class="sc">|&gt;</span> </span>
+<span id="cb12-326"><a href="#cb12-326"></a>  <span class="fu">select</span>(<span class="fu">c</span>(<span class="sc">-</span>df, <span class="sc">-</span>t.ratio)) <span class="sc">|&gt;</span> </span>
+<span id="cb12-327"><a href="#cb12-327"></a>  <span class="fu">rename</span>(<span class="st">"Contrast"</span> <span class="ot">=</span> <span class="st">"contrast"</span>,</span>
+<span id="cb12-328"><a href="#cb12-328"></a>         <span class="st">"Estimate"</span> <span class="ot">=</span> <span class="st">"estimate"</span>,</span>
+<span id="cb12-329"><a href="#cb12-329"></a>         <span class="st">"95% C.I. (lower)"</span> <span class="ot">=</span> <span class="st">"lower.CL"</span>,</span>
+<span id="cb12-330"><a href="#cb12-330"></a>         <span class="st">"95% C.I. (upper)"</span> <span class="ot">=</span> <span class="st">"upper.CL"</span>,</span>
+<span id="cb12-331"><a href="#cb12-331"></a>         <span class="st">"p"</span> <span class="ot">=</span> <span class="st">"p.value"</span>) <span class="sc">|&gt;</span> </span>
+<span id="cb12-332"><a href="#cb12-332"></a>  <span class="fu">flextable</span>() <span class="sc">|&gt;</span> </span>
+<span id="cb12-333"><a href="#cb12-333"></a>  <span class="fu">colformat_double</span>(<span class="at">digits =</span> <span class="dv">3</span>, <span class="at">na_str =</span> <span class="st">"N/A"</span>) <span class="sc">|&gt;</span></span>
+<span id="cb12-334"><a href="#cb12-334"></a>  <span class="fu">set_table_properties</span>(<span class="at">layout =</span> <span class="st">"autofit"</span>) <span class="sc">|&gt;</span> </span>
+<span id="cb12-335"><a href="#cb12-335"></a>  <span class="fu">height</span>(<span class="at">height =</span> <span class="dv">1</span>, <span class="at">unit =</span> <span class="st">"cm"</span>) <span class="sc">|&gt;</span> </span>
+<span id="cb12-336"><a href="#cb12-336"></a>  <span class="fu">hrule</span>(<span class="at">rule =</span> <span class="st">"atleast"</span>, <span class="at">part =</span> <span class="st">"header"</span>) <span class="sc">|&gt;</span> </span>
+<span id="cb12-337"><a href="#cb12-337"></a>  <span class="fu">align</span>(<span class="at">align =</span> <span class="st">"center"</span>, <span class="at">part =</span> <span class="st">"body"</span>) <span class="sc">|&gt;</span></span>
+<span id="cb12-338"><a href="#cb12-338"></a>  <span class="fu">bg</span>(<span class="at">bg =</span> <span class="st">"white"</span>, <span class="at">part =</span> <span class="st">"all"</span>) <span class="sc">|&gt;</span> </span>
+<span id="cb12-339"><a href="#cb12-339"></a>  flextable<span class="sc">::</span><span class="fu">font</span>(<span class="at">fontname =</span> <span class="st">"Consolas"</span>, <span class="at">part =</span> <span class="st">"all"</span>) <span class="sc">|&gt;</span></span>
+<span id="cb12-340"><a href="#cb12-340"></a>  <span class="fu">theme_vanilla</span>()</span>
+<span id="cb12-341"><a href="#cb12-341"></a><span class="in">```</span></span>
+<span id="cb12-342"><a href="#cb12-342"></a></span>
+<span id="cb12-343"><a href="#cb12-343"></a>That's probably enough on RCS's for now - this post has turned out longer than I initially anticipated. I hope you have found it helpful and above all, found some motivation to using RCS's in your modelling endeavours if you are not already. </span>
+<span id="cb12-344"><a href="#cb12-344"></a></span>
+<span id="cb12-345"><a href="#cb12-345"></a><span class="fu">### Extra Reading</span></span>
+<span id="cb12-346"><a href="#cb12-346"></a></span>
+<span id="cb12-347"><a href="#cb12-347"></a>If you want to dive a little deeper into RCS's than we've done here, I can thoroughly recommend the following 3 papers:</span>
+<span id="cb12-348"><a href="#cb12-348"></a></span>
+<span id="cb12-349"><a href="#cb12-349"></a><span class="co">[</span><span class="ot">Modeling non-linear relationships in epidemiological data: The application and interpretation of spline models</span><span class="co">](https://www.frontiersin.org/articles/10.3389/fepid.2022.975380/full)</span></span>
+<span id="cb12-350"><a href="#cb12-350"></a></span>
+<span id="cb12-351"><a href="#cb12-351"></a><span class="co">[</span><span class="ot">Cubic splines to model relationships between continuous variables and outcomes: a guide for clinicians</span><span class="co">](https://www.nature.com/articles/s41409-019-0679-x)</span></span>
+<span id="cb12-352"><a href="#cb12-352"></a></span>
+<span id="cb12-353"><a href="#cb12-353"></a><span class="co">[</span><span class="ot">A review of spline function procedures in R</span><span class="co">](https://bmcmedresmethodol.biomedcentral.com/articles/10.1186/s12874-019-0666-3)</span></span>
 </code><button title="Copy to Clipboard" class="code-copy-button"><i class="bi"></i></button></pre></div>
 </div></div></div></div></div>
 </div> <!-- /content -->

diff --git a/_site/index.html b/_site/index.html
@@ -300,7 +300,7 @@ Dec 1, 2024
 </a>
 </div>
 </div>
-<div class="quarto-post image-right" data-index="1" data-categories="analysis,concept,code,modelling,visualisation" data-listing-date-sort="1712235600000" data-listing-file-modified-sort="1709614807751" data-listing-date-modified-sort="NaN" data-listing-reading-time-sort="20" data-listing-word-count-sort="3948">
+<div class="quarto-post image-right" data-index="1" data-categories="analysis,concept,code,modelling,visualisation" data-listing-date-sort="1712235600000" data-listing-file-modified-sort="1709691458329" data-listing-date-modified-sort="NaN" data-listing-reading-time-sort="20" data-listing-word-count-sort="3960">
 <div class="thumbnail">
 <p><a href="./posts/009_05Apr_2024/index.html" class="no-external"></a></p><a href="./posts/009_05Apr_2024/index.html" class="no-external">
 <p><img src="./posts/009_05Apr_2024/spline_small.jpg" class="thumbnail-image"></p>
